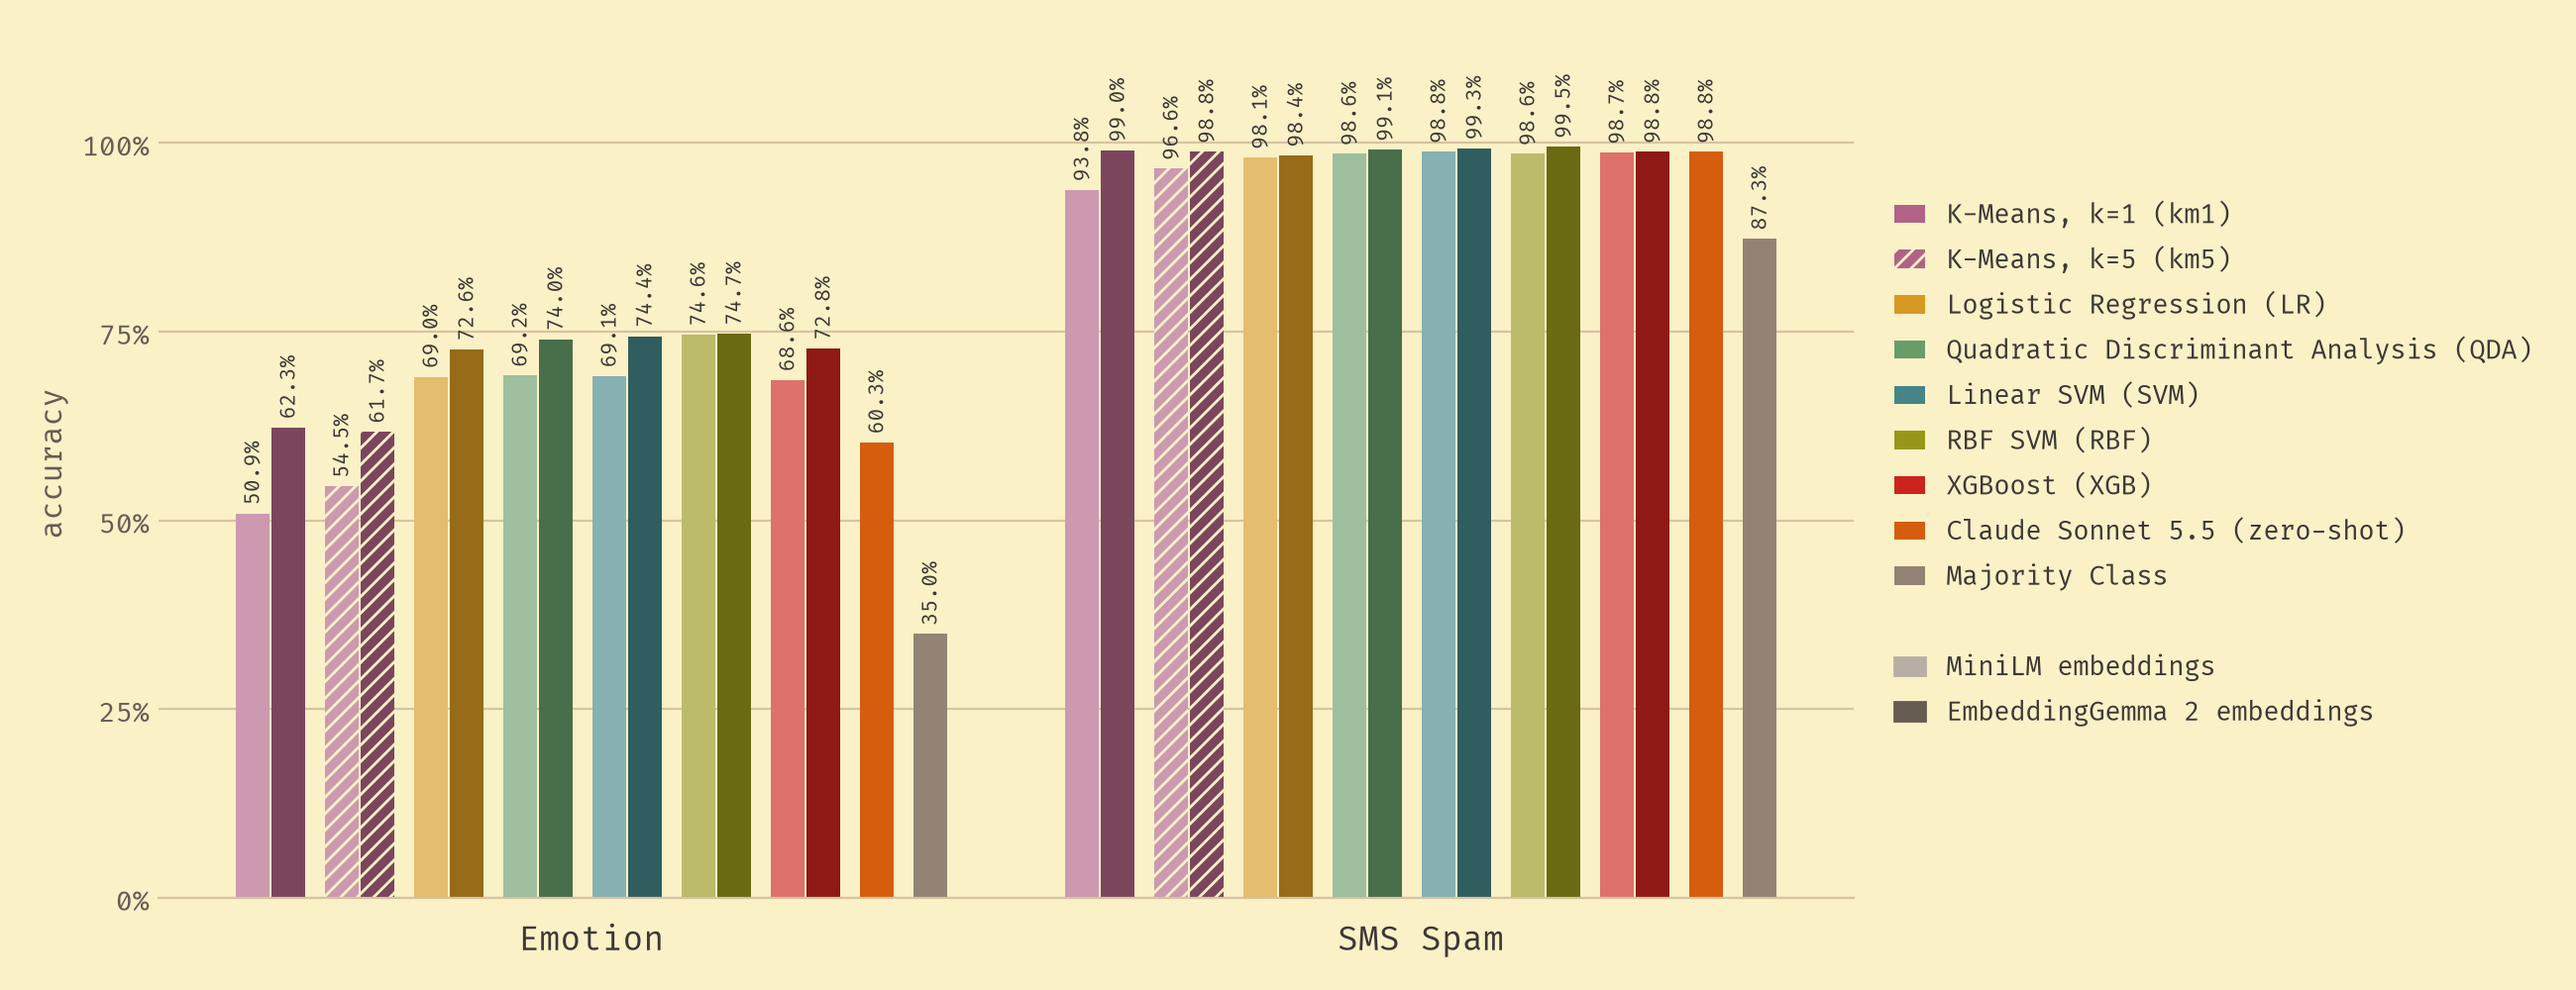
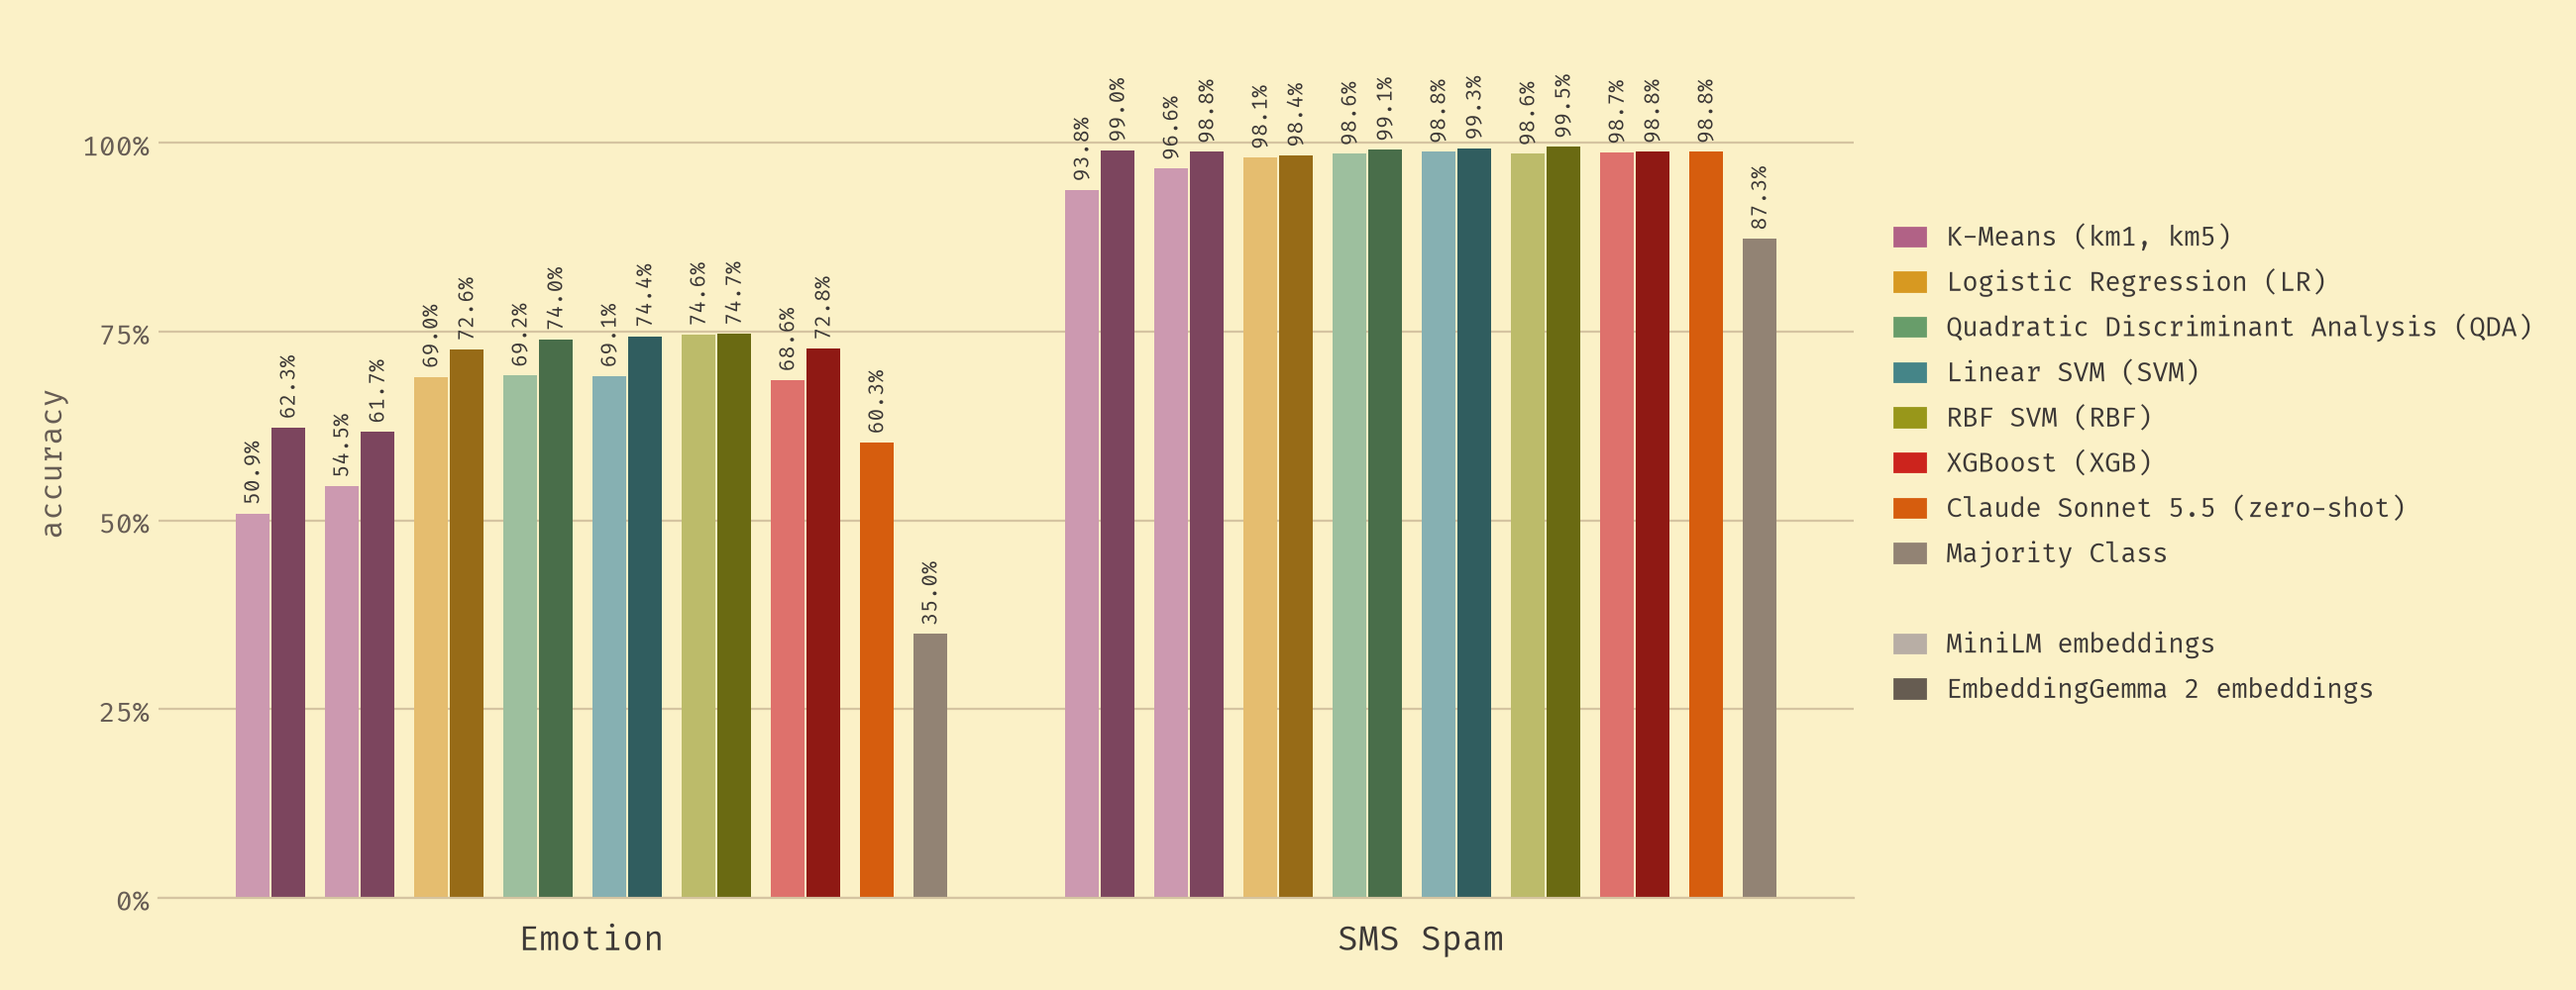
Lead the README with the Pareto chart only
- Drop the speed chart: it repeated what the Pareto chart shows
- README embeds only the Pareto chart, with three takeaways under it, and
  links the accuracy chart as the full breakdown
- Both k-means variants look identical and share one legend entry
- No outline or size highlight on frontier points; the dashed line marks it
- Frontier treats latencies within 10% as tied, so microsecond timing
  differences (e.g. k-means k=1 vs. k=5) no longer put a point on it

diff --git a/results/figures/style.py b/results/figures/style.py
@@ -1,11 +1,12 @@
 """Gruvbox look shared by every headline figure: themes, colours, legend and axis styling.
 
 One hue per classifier family (neutral gruvbox accents on the light background, bright ones on dark):
-both k-means variants share purple, and the second one is hatched (bars) or square (points). Each embedder
-then shifts the hue's brightness, first embedder lightest, so a classifier's bars or points read as one
-colour and the embedder as light vs. dark. Claude is orange; the majority class is grey.
+both k-means variants look identical and share one legend entry; only their labels tell them apart. Each
+embedder then shifts the hue's brightness, first embedder lightest, so a classifier's bars or points read as
+one colour and the embedder as light vs. dark. Claude is orange; the majority class is grey.
 """
 
+import os
 from pathlib import Path
 
 import matplotlib
@@ -16,7 +17,7 @@ import numpy as np
 from matplotlib.colors import to_rgb
 from matplotlib.patches import Patch
 
-from figures.data import EMBEDDER_NAMES, Summary, embedder_of, legend_label, method_of
+from figures.data import EMBEDDER_NAMES, FULL_NAMES, SHORT_NAMES, Summary, embedder_of, legend_label, method_of
 
 FONTS = ["FiraCode Nerd Font", "Fira Code", "Menlo", "DejaVu Sans Mono", "monospace"]
 
@@ -29,8 +30,6 @@ GRUVBOX = {
 CLASSIFIER_ACCENTS = {"k-means (k=1)": "purple", "k-means (k=5)": "purple", "logistic regression": "yellow",
                       "QDA": "aqua", "linear SVM": "blue", "RBF SVM": "green", "XGBoost": "red"}
 SPARE_ACCENTS = ["aqua", "blue", "green", "red", "yellow", "purple"]  # cycled for classifiers not listed above
-HATCHES = [None, "////", "...."]  # 1st, 2nd, 3rd classifier sharing an accent (bars and legend swatches)
-MARKERS = ["o", "s", "D"]  # the same, for points
 BRIGHTNESS = (0.35, -0.3)  # per embedder: > 0 mixes toward white, < 0 toward black (more embedders: interpolated)
 THEMES = {
     "light": dict(bg="#fbf1c7", fg="#3c3836", fg2="#665c54", grid="#d5c4a1", accent=1, suffix=""),
@@ -66,27 +65,9 @@ def accent(method: str, summary: Summary) -> str:
     return SPARE_ACCENTS[unlisted.index(method) % len(SPARE_ACCENTS)]
 
 
-def variant(key: str, summary: Summary) -> int:
-    """0 for the first classifier with this accent, 1 for the second (k-means k=5), ..."""
-    method = method_of(key)
-    if ":" not in key and method not in summary.classifiers:
-        return 0  # Claude, majority class
-    same = [c for c in summary.classifiers if accent(c, summary) == accent(method, summary)]
-    return same.index(method) % len(HATCHES)
-
-
-def hatch(key: str, summary: Summary) -> str | None:
-    return HATCHES[variant(key, summary)]
-
-
-def marker(key: str, summary: Summary) -> str:
-    return MARKERS[variant(key, summary)]
-
-
 def new_figure(theme: str, ncols: int = 1, **kwargs):
     t = THEMES[theme]
     plt.rcParams["font.family"] = FONTS
-    plt.rcParams["hatch.linewidth"] = 1.0
     fig, axes = plt.subplots(1, ncols, facecolor=t["bg"], **kwargs)
     for ax in np.atleast_1d(axes):
         ax.set_facecolor(t["bg"])
@@ -104,12 +85,15 @@ def style_axes(ax, theme: str, grid: str = "y") -> None:
 
 
 def legend(ax, summary: Summary, keys: list[str], theme: str) -> None:
-    """One swatch per method shown, then one grey swatch per embedder showing its brightness, right of `ax`."""
+    """One swatch per colour shown (methods that share a colour share the swatch, e.g. "K-Means (km1, km5)"),
+    then one grey swatch per embedder showing its brightness, right of `ax`."""
     t = THEMES[theme]
     claude = dict(summary.methods).get("claude", "Claude")
-    shown = list(dict.fromkeys(method_of(k) for k in keys))
-    handles = [Patch(facecolor=color(m, summary, theme), hatch=hatch(m, summary), edgecolor=t["bg"], linewidth=0,
-                     label=legend_label(m, claude)) for m in shown]
+    by_accent: dict[str, list[str]] = {}
+    for m in dict.fromkeys(method_of(k) for k in keys):
+        by_accent.setdefault(accent(m, summary), []).append(m)
+    handles = [Patch(color=color(ms[0], summary, theme), label=legend_label(ms[0], claude) if len(ms) == 1
+                     else shared_label(ms)) for ms in by_accent.values()]
     handles.append(Patch(color="none", label=""))
     gray = GRUVBOX["gray"][t["accent"]]
     n = len(summary.embedders)
@@ -117,6 +101,13 @@ def legend(ax, summary: Summary, keys: list[str], theme: str) -> None:
                 for i, e in enumerate(summary.embedders)]
     ax.legend(handles=handles, loc="center left", bbox_to_anchor=(1.01, 0.5), frameon=False, fontsize=9.5,
               labelcolor=t["fg"], handlelength=1.2, labelspacing=0.5)
+
+
+def shared_label(methods: list[str]) -> str:
+    """["k-means (k=1)", "k-means (k=5)"] -> "K-Means (km1, km5)": the full names' common part, then each short name."""
+    fulls = [FULL_NAMES.get(m, m) for m in methods]
+    common = os.path.commonprefix(fulls).rstrip(", =k").strip() or " / ".join(fulls)
+    return f"{common} ({', '.join(SHORT_NAMES.get(m, m) for m in methods)})"
 
 
 def save(fig, path: Path, theme: str) -> None:

diff --git a/results/figures/pareto.py b/results/figures/pareto.py
@@ -1,4 +1,7 @@
-"""Accuracy vs. latency per dataset, with the Pareto frontier: the methods no other method beats on both."""
+"""Accuracy vs. latency per dataset, with the Pareto frontier: the methods no other method beats on both.
+
+Latencies within LATENCY_TOL of each other count as equal, since per-text timings that close are within
+measurement noise (e.g. k-means k=1 vs. k=5 on MiniLM differ by microseconds)."""
 
 from pathlib import Path
 
@@ -13,16 +16,18 @@ from figures.data import DATASET_NAMES, SHORT_NAMES, Summary, method_of
 # and EmbeddingGemma 2 points sit in separate columns (and differ in brightness).
 LABEL_SIZE = 8.5  # points
 LABEL_GAP = 11  # minimum vertical distance between labels in one column, in points
+LATENCY_TOL = 0.10  # latencies within 10% of each other are treated as tied
+
+
+def dominates(q: tuple[float, float, str], p: tuple[float, float, str]) -> bool:
+    """q is at least as accurate as p and not meaningfully slower, and strictly better on one of the two."""
+    (q_lat, q_acc, _), (p_lat, p_acc, _) = q, p
+    return q_acc >= p_acc and q_lat <= p_lat * (1 + LATENCY_TOL) and (q_acc > p_acc or q_lat < p_lat)
 
 
 def frontier(points: list[tuple[float, float, str]]) -> list[tuple[float, float, str]]:
-    """(latency, accuracy, key) points that no other point beats on both: faster and at least as accurate."""
-    best, front = -1.0, []
-    for lat, acc, key in sorted(points, key=lambda p: (p[0], -p[1])):
-        if acc > best:
-            front.append((lat, acc, key))
-            best = acc
-    return front
+    """(latency, accuracy, key) points that no other point dominates, fastest first."""
+    return sorted((p for p in points if not any(dominates(q, p) for q in points if q is not p)), key=lambda p: p[0])
 
 
 def spread(ys: np.ndarray) -> np.ndarray:
@@ -77,7 +82,6 @@ def pareto(summary: Summary, theme: str, path: Path) -> None:
         points = [(summary.latency_ms[k][dataset], summary.accuracy[k][dataset], k)
                   for k in keys if dataset in summary.latency_ms[k]]
         front = frontier(points)
-        on_front = {k for _, _, k in front}
 
         # Frontier as a step line: from each frontier point, flat until the next (slower, more accurate) one.
         xs = [p[0] for p in front] + [xlim[1]]
@@ -85,10 +89,7 @@ def pareto(summary: Summary, theme: str, path: Path) -> None:
         ax.step(xs, ys, where="post", color=t["fg2"], linewidth=1.2, linestyle="--", zorder=1)
 
         for lat, acc, key in points:
-            ax.scatter(lat, acc, s=90 if key in on_front else 55, color=style.color(key, summary, theme),
-                       marker=style.marker(key, summary),
-                       edgecolor=t["fg"] if key in on_front else t["bg"], linewidth=1.4 if key in on_front else 0.8,
-                       zorder=3)
+            ax.scatter(lat, acc, s=60, color=style.color(key, summary, theme), edgecolor=t["bg"], linewidth=0.8, zorder=3)
 
         accs = [p[1] for p in points]
         pad = (max(accs) - min(accs)) * 0.08
@@ -106,7 +107,7 @@ def pareto(summary: Summary, theme: str, path: Path) -> None:
     style.legend(axes[-1], summary, keys, theme)
     legend = axes[-1].get_legend()  # add the frontier to the shared legend
     handles = legend.legend_handles + [Line2D([], [], color=t["fg2"], linestyle="--", linewidth=1.2,
-                                              label="Pareto frontier (outlined points)")]
+                                              label="Pareto frontier")]
     axes[-1].legend(handles=handles, loc="center left", bbox_to_anchor=(1.01, 0.5), frameon=False, fontsize=9.5,
                     labelcolor=t["fg"], handlelength=1.2, labelspacing=0.5)
     fig.tight_layout()  # fix the layout before converting point positions to display coordinates

diff --git a/results/figures/bars.py b/results/figures/bars.py
@@ -29,8 +29,7 @@ def bar_chart(summary: Summary, values: dict[str, dict[str, float]], theme: str,
     for key, off in zip(methods, offsets):
         xs = x + off * width
         ys = [values[key].get(d, np.nan) for d in summary.datasets]
-        ax.bar(xs, ys, width * 0.94, color=style.color(key, summary, theme), hatch=style.hatch(key, summary),
-               edgecolor=t["bg"], linewidth=0, zorder=2)
+        ax.bar(xs, ys, width * 0.94, color=style.color(key, summary, theme), zorder=2)
         for xi, yi in zip(xs, ys):
             if not np.isnan(yi):
                 ax.annotate(fmt(yi), (xi, yi), xytext=(0, 3), textcoords="offset points", rotation=90,
@@ -55,7 +54,3 @@ def bar_chart(summary: Summary, values: dict[str, dict[str, float]], theme: str,
 
 def accuracy(summary: Summary, theme: str, path: Path) -> None:
     bar_chart(summary, summary.accuracy, theme, path, ylabel="accuracy", fmt=lambda v: f"{v:.1%}")
-
-
-def speed(summary: Summary, theme: str, path: Path) -> None:
-    bar_chart(summary, summary.latency_ms, theme, path, ylabel="ms per text (log scale)", fmt=style.fmt_ms, log=True)

diff --git a/results/plot_summary.py b/results/plot_summary.py
@@ -1,9 +1,8 @@
 """Headline figures: classical classifiers on small-LM embeddings vs. a zero-shot Claude baseline.
 
 Writes to results/plots/, each with a -dark variant for GitHub's dark mode:
-    accuracy.png   test accuracy, datasets on the X axis, one bar per method
-    speed.png      time per text (log scale), same layout
-    pareto.png     accuracy vs. time per text per dataset, with the Pareto frontier
+    pareto.png     accuracy vs. time per text per dataset, with the Pareto frontier (the README's chart)
+    accuracy.png   test accuracy, datasets on the X axis, one bar per method (the full breakdown)
 
 The code lives in results/figures/ (data.py loads results, style.py holds the gruvbox look,
 bars.py and pareto.py draw). The caveats live in the README, not in the figures.
@@ -17,7 +16,7 @@ from figures import bars, pareto, style
 from figures.data import load
 
 PLOTS = Path(__file__).resolve().parent / "plots"
-FIGURES = {"accuracy": bars.accuracy, "speed": bars.speed, "pareto": pareto.pareto}
+FIGURES = {"pareto": pareto.pareto, "accuracy": bars.accuracy}
 
 
 def main() -> None:

diff --git a/README.md b/README.md
@@ -2,32 +2,24 @@
 
 Embed text with a small language model, then classify it with a classical model such as an SVM. On both of our benchmarks this matches or beats zero-shot Claude Sonnet 5.5, at 47–360× lower latency per text and with no per-call cost.
 
-<!-- TODO: add a three-bullet takeaway or a short "when to use this vs. an LLM API" guide here, above the figures.
+<!-- TODO: add a three-bullet takeaway or a short "when to use this vs. an LLM API" guide here, above the chart.
      e.g. stable labels + high volume + latency or privacy limits -> embeddings + classical classifier;
      no labeled data, categories that change often, or low volume -> prompt an LLM. -->
 
 We embed each text with one of two small encoders, MiniLM or EmbeddingGemma 2, and train seven classical classifiers on the embeddings. We compare them with Claude Sonnet 5.5 labeling the same test texts zero-shot, on two datasets: Emotion (tweets, 6 classes) and SMS Spam (2 classes). The classifiers learn from each dataset's labeled training split (16,000 and 4,136 texts), while Claude gets only the label names, so this is a trained pipeline against an untrained one.
 
-**Accuracy.** On Emotion, 12 of the 14 trained models beat Claude (60.3%). Only the two k-means models on MiniLM fall below it. SMS Spam is close to solved: guessing "not spam" every time already scores 87%. There, every model lands between 94% and 99.5%, and Claude sits mid-pack at 98.8%.
-
-<picture>
-  <source media="(prefers-color-scheme: dark)" srcset="results/plots/accuracy-dark.png">
-  <img alt="Test accuracy on Emotion and SMS Spam for every classifier on MiniLM and EmbeddingGemma 2 embeddings, zero-shot Claude Sonnet 5.5, and the majority class" src="results/plots/accuracy.png">
-</picture>
-
-**Speed.** The embedder sets the speed, not the classifier: about 5 ms per text with MiniLM and 30 ms with EmbeddingGemma 2, against 1.5–1.8 s on average per Claude request.
-
-<picture>
-  <source media="(prefers-color-scheme: dark)" srcset="results/plots/speed-dark.png">
-  <img alt="Time per text on a log scale for the same methods: about 5 ms with MiniLM, 30 ms with EmbeddingGemma 2, and 1.5-1.8 s for Claude" src="results/plots/speed.png">
-</picture>
-
-**The trade-off.** The dashed line is the Pareto frontier: the methods for which no other method is at least as fast and at least as accurate. On both datasets it is made up only of embedding + classifier pipelines, and Claude is slower and no more accurate than the best of them. Within the frontier, the smaller encoder is often enough. On Emotion, MiniLM with an RBF SVM scores 74.6% at 6.6 ms, effectively tied with the best model (EmbeddingGemma 2 with an RBF SVM, 74.7%, a difference of 4 texts out of 4,000) at about a fifth of its latency.
-
 <picture>
   <source media="(prefers-color-scheme: dark)" srcset="results/plots/pareto-dark.png">
   <img alt="Accuracy against time per text for every method on Emotion and SMS Spam, with the Pareto frontier; Claude is off the frontier on both" src="results/plots/pareto.png">
 </picture>
+
+Up and to the left is better. The dashed line is the Pareto frontier: the methods for which no other method is at least as accurate and at most 10% slower. Closer timings than that are within measurement noise.
+
+- **Claude is never on the frontier.** On both datasets the frontier is made up only of embedding + classifier pipelines. On Emotion, 12 of the 14 trained models beat Claude's 60.3%; only the two k-means models on MiniLM fall below it. SMS Spam is close to solved (guessing "not spam" every time already scores 87%), and there Claude sits mid-pack at 98.8%.
+- **The embedder sets the speed, not the classifier.** Points form two columns: about 5 ms per text with MiniLM and 30 ms with EmbeddingGemma 2, against 1.5–1.8 s on average per Claude request.
+- **The smaller encoder is often enough.** On Emotion, MiniLM with an RBF SVM scores 74.6% at 6.6 ms. That is effectively tied with the best model (EmbeddingGemma 2 with an RBF SVM, 74.7%, a difference of 4 texts out of 4,000) at about a fifth of its latency.
+
+Every model's accuracy, side by side, is in the [full accuracy chart](results/plots/accuracy.png).
 
 | | SMS Spam (2 classes) | Emotion (6 classes) |
 |---|---|---|
@@ -84,7 +76,7 @@ Through the API at list prices, the same zero-shot Claude Sonnet 5.5 call would 
 
 Each `experiment.py` run goes through every embedder in `EMBEDDERS` and writes `results/<dataset>_<embedder>.csv` and `results/<dataset>_<embedder>.json` for each. `experiment_claude.py` writes to `results/claude/`. Then:
 
-    uv run results/plot_summary.py   # headline figures: results/plots/accuracy.png, speed.png, pareto.png
+    uv run results/plot_summary.py   # results/plots/pareto.png (the chart above) and accuracy.png
     uv run results/plot.py           # per-run plots: results/plots/<dataset>_<embedder>.png
 
 Per-run plots compare all seven classifiers, e.g. [SMS Spam with MiniLM](results/plots/sms_spam_minilm.png).
@@ -101,10 +93,10 @@ pass it per command or set it once for your shell:
 ## Notes
 
 - **Trained vs. zero-shot.** Every classifier is trained on its dataset's labeled train split. Claude Sonnet 5.5 gets only the label names, at low effort, one request per text.
-- **Accuracy** is measured on the test split: 4,000 texts for Emotion and 1,035 for SMS Spam. The table's "best classifier" rows are the most accurate of seven, picked on the test split. The figures show all seven instead.
+- **Accuracy** is measured on the test split: 4,000 texts for Emotion and 1,035 for SMS Spam. The table's "best classifier" rows are the most accurate of seven, picked on the test split. The charts show all seven instead.
 - **Local time** is embedding + classifier for one text at a time, the mean over 100 test texts on an Apple M2 Pro laptop. The embedder picks its own device. Training time is not included.
 - **Claude time** is the mean model time per request reported by headless Claude Code (the same statistic as local time). It leaves out about 1.1 s per request of CLI startup and overhead, but includes the network round trip and Claude Code's own prompt.
-- **Pareto chart.** The majority class is left out: it has no model to time. Several frontier points differ by fractions of a millisecond or a few test texts, so treat the exact frontier membership as noisy.
+- **Pareto chart.** The majority class is left out: it has no model to time. Latencies within 10% of each other count as tied, so a model is on the frontier only if nothing at least as accurate is within 10% of its speed. Some frontier points still differ by only a few test texts, so treat the exact frontier membership as noisy.
 
 <!-- TODO: author section: your name, links (site, LinkedIn, Google Scholar), one line on how this connects to your
      research, and a "what I'd extend next" line (e.g. on-device benchmark, more datasets, fine-tuned small transformer). -->
